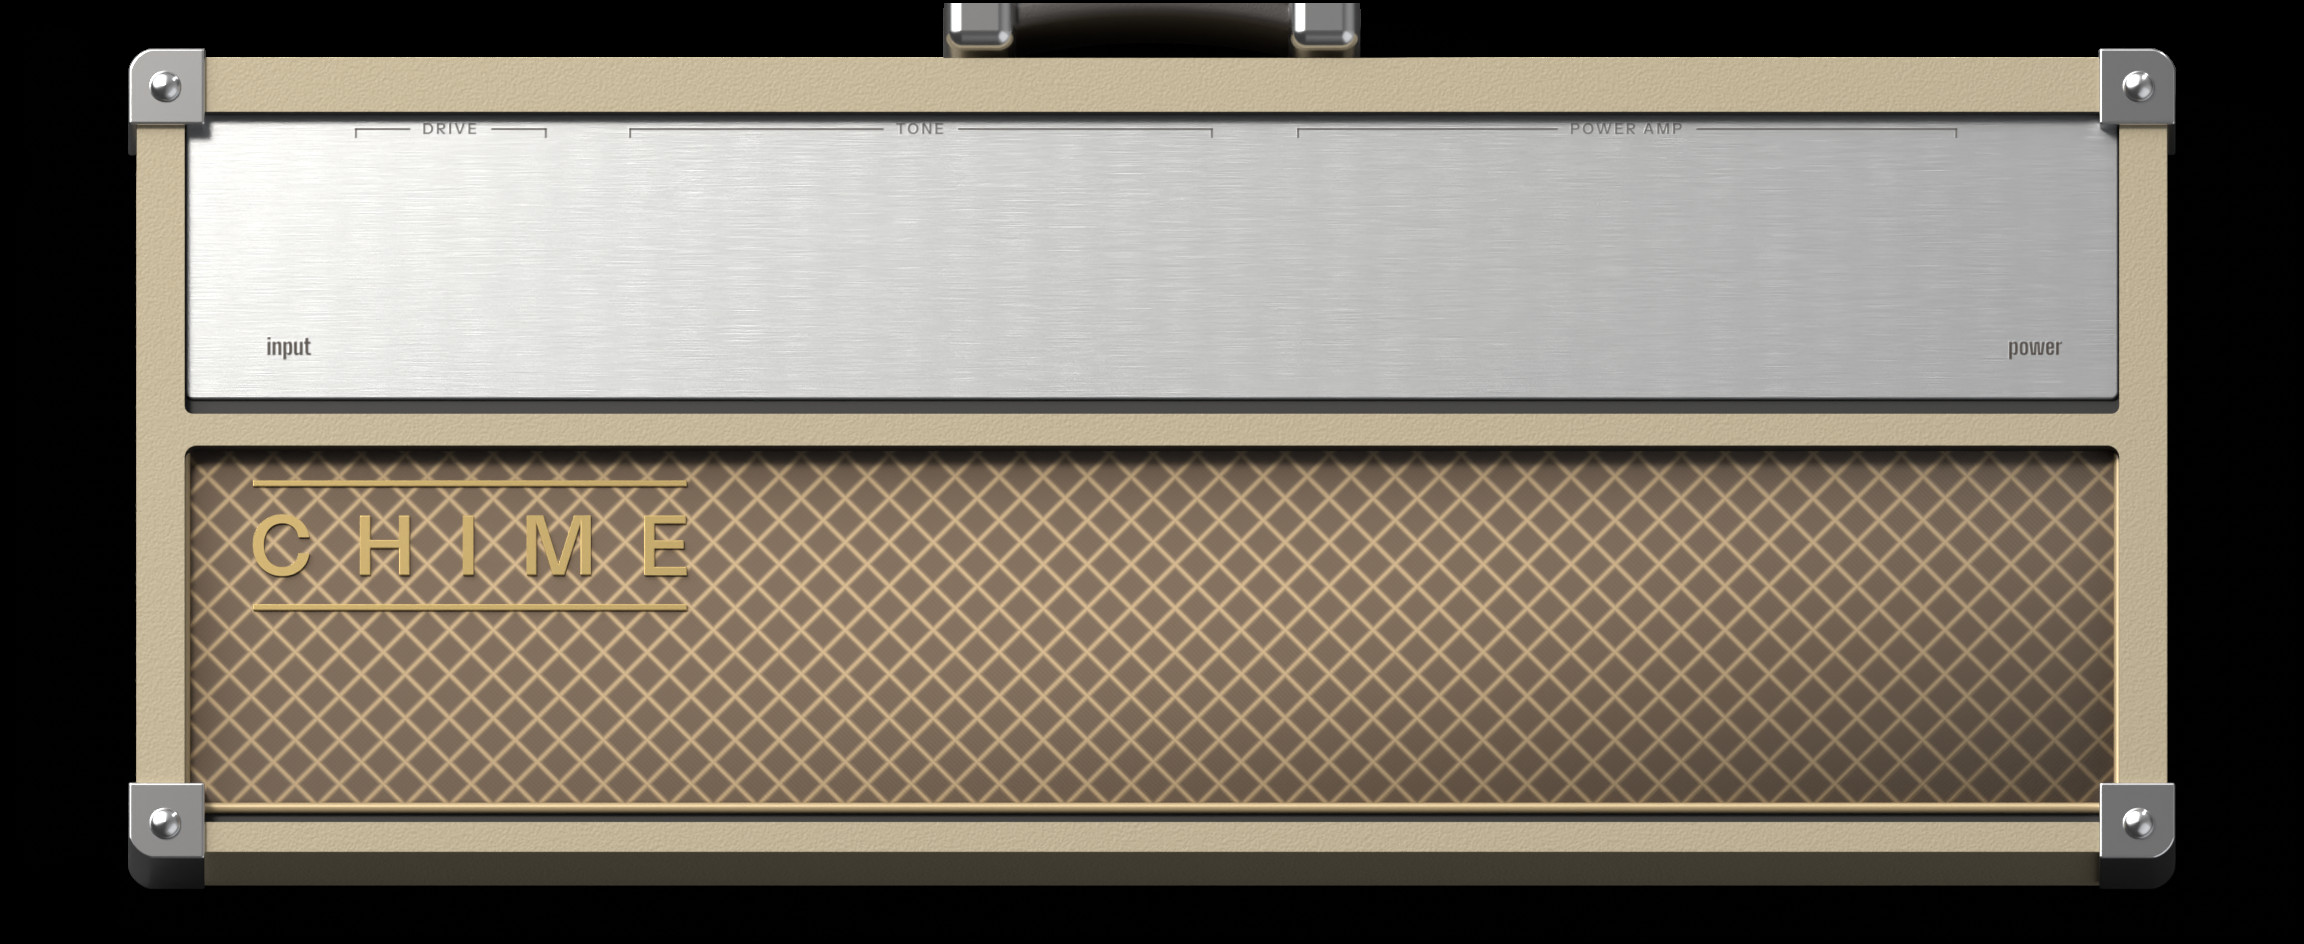
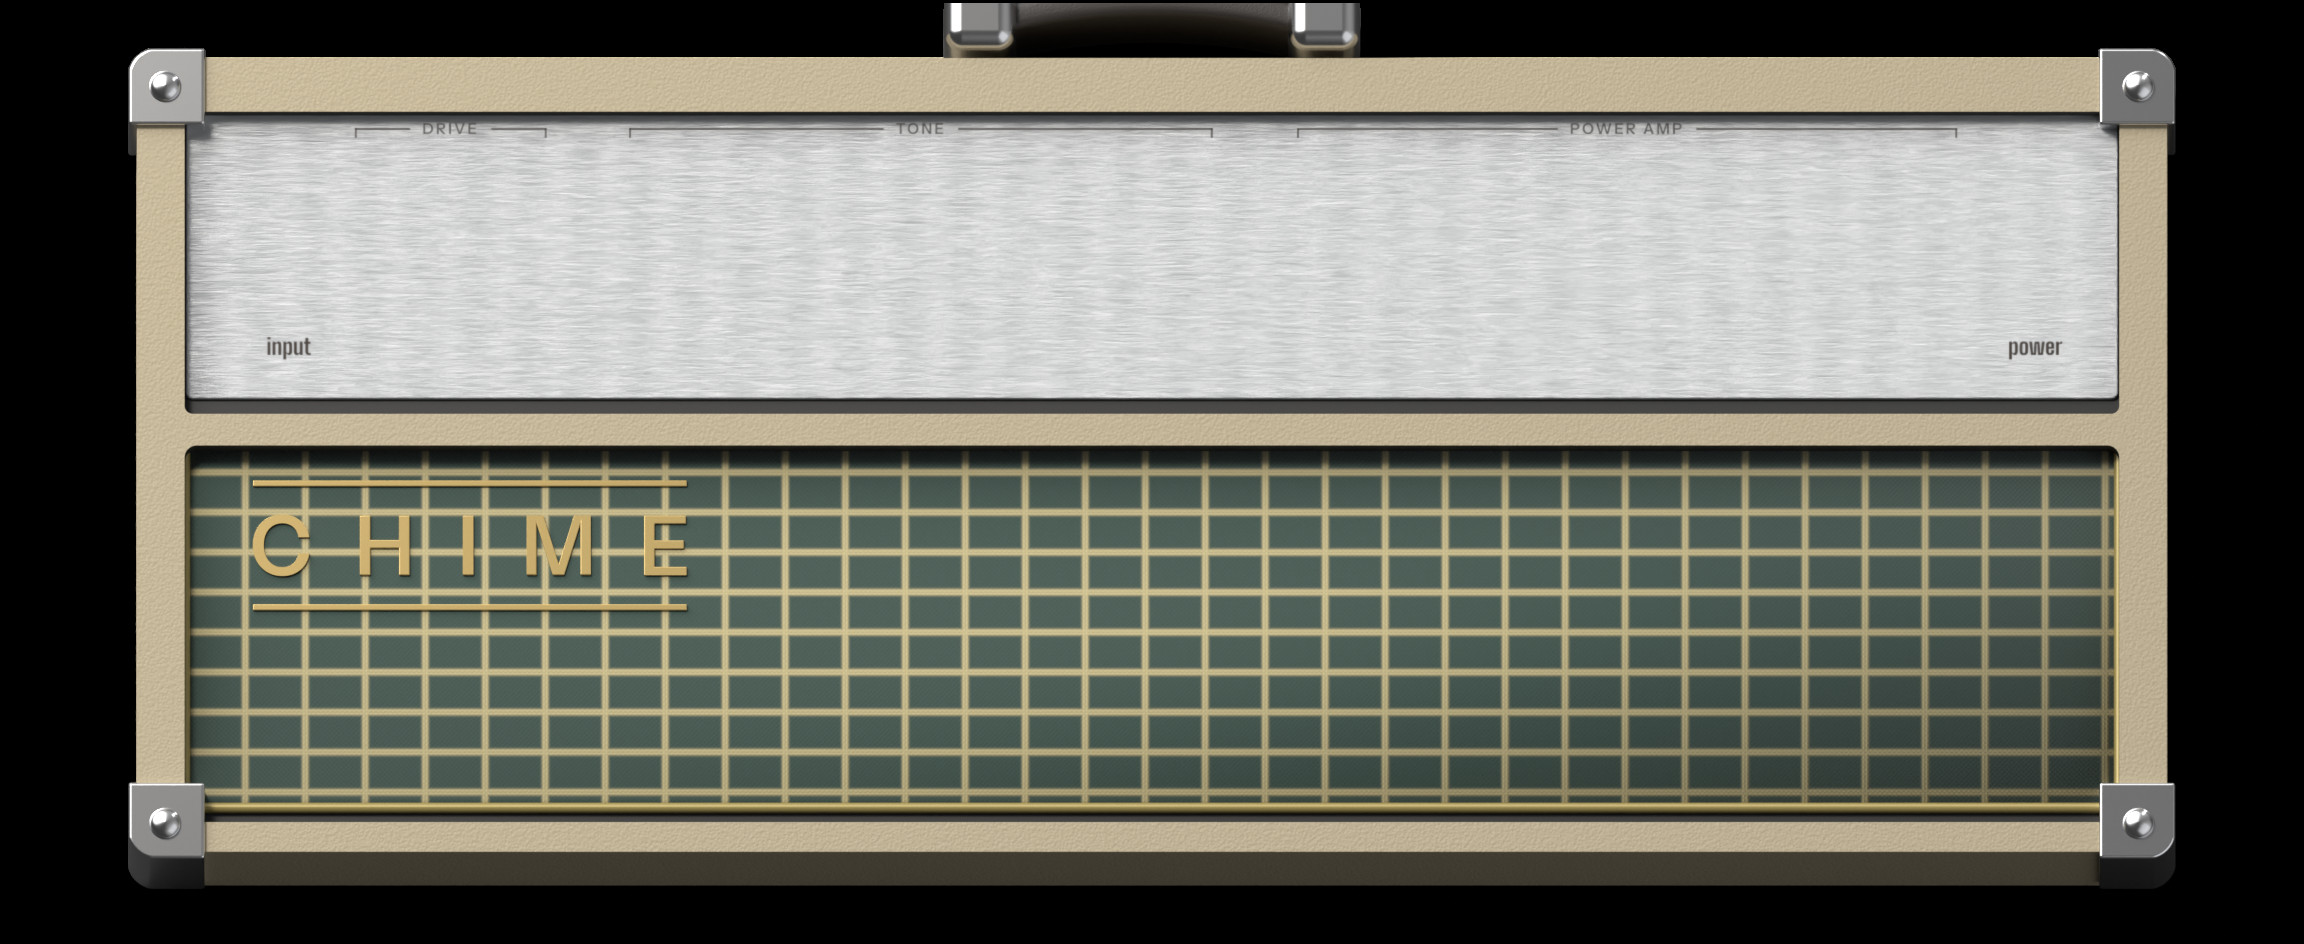
Chime amp and cab: a windowpane grille cloth in brass over deep green, clear of the diamond lattice
The diamond lattice over cream tolex was close to a famous British amp's look. The cloth is now a
brass windowpane check over deep green, in the live drawing (Gear.cpp), in the 3D art's source
(amps.py) and in the re-rendered art of the Chime amp and its matching cab.

Claude-Session: https://claude.ai/code/session_01S98bwYnjA36tYr2VHe11xa

diff --git a/src/ui/Gear.cpp b/src/ui/Gear.cpp
@@ -444,7 +444,7 @@ const AmpDesign& ampDesign (int m)
           { "volume", "bass", "middle", "treble", "bright", "deep", "master", "output" }, { 0, 3, 2, 1, 4, 5, 6, 7 }, 0x30 },
         { "tweed",     Tolex::tweed,  0xffc9a66b, Panel::chrome,   0xff1b1a18, Weave::wheat,      0,          KnobStyle::chicken, 0xffece4cf, 0xfff2351f, Face::instrumentSemi, true,  false, false, 2, 0, 1, 0.66f,
           { "volume", "bass", "middle", "treble", "presence", "body", "loud", "output" }, { 4, 2, 1, 3, 0, 6, 5, 7 }, 0xa0 },
-        { "chime",     Tolex::cream,  0xffd9c9a6, Panel::brushed,  0xff2b1f14, Weave::diamond,    0xffcbb48a, KnobStyle::chicken, 0xfff1ead8, 0xffffc35a, Face::shoulders,      true,  false, false, 0, 3, 1, 0.94f,
+        { "chime",     Tolex::cream,  0xffd9c9a6, Panel::brushed,  0xff2b1f14, Weave::diamond,    0xffa8975a, KnobStyle::chicken, 0xfff1ead8, 0xffffc35a, Face::shoulders,      true,  false, false, 0, 3, 1, 0.94f,
           { "drive", "bass", "middle", "treble", "brilliance", "weight", "master", "output" }, { 0, 1, 2, 3, 4, 5, 6, 7 }, 0x30 },
         { "SOVEREIGN", Tolex::levant, 0xff131313, Panel::gold,     0xff17130c, Weave::none,       0xffe9e4d6, KnobStyle::hat,     0xffd8b04a, 0xffec2f1b, Face::shoulders,      false, true,  false, 1, 0, 2, 1.0f,
           { "VOLUME I", "BASS", "MIDDLE", "TREBLE", "PRESENCE", "RESONANCE", "VOLUME II", "OUTPUT" }, { 4, 1, 2, 3, 0, 6, 5, 7 }, 0xa0 },
@@ -1505,17 +1505,16 @@ namespace
                 }
                 break;
             }
-            case Weave::diamond:
+            case Weave::diamond: // the windowpane cloth: a brass lattice of upright rectangles over deep green
             {
-                g.setColour (C (0xff3a2b1f));
+                g.setColour (C (0xff10231d));
                 g.fillRect (r);
-                const float p = 22.0f;
-                for (float x = r.getX() - r.getHeight(); x < r.getRight() + r.getHeight(); x += p)
-                {
-                    g.setColour (C (0xffb08e5c).withAlpha (0.55f));
-                    g.drawLine (x, r.getY(), x + r.getHeight(), r.getBottom(), 3.0f);
-                    g.drawLine (x, r.getBottom(), x + r.getHeight(), r.getY(), 3.0f);
-                }
+                const float pu = 30.0f, pv = 20.0f;
+                g.setColour (C (0xffa8975a).withAlpha (0.6f));
+                for (float x = r.getX() + 1.0f; x < r.getRight(); x += pu)
+                    g.fillRect (x, r.getY(), 3.0f, r.getHeight());
+                for (float y = r.getY() + 1.0f; y < r.getBottom(); y += pv)
+                    g.fillRect (r.getX(), y, r.getWidth(), 3.0f);
                 for (int i = 0; i < (int) (area / 6.0f); ++i)
                 {
                     g.setColour (juce::Colours::black.withAlpha (0.08f + rnd.nextFloat() * 0.1f));
@@ -2559,7 +2558,7 @@ namespace
         switch (m)
         {
             case 0:  return { Weave::black,      0,          5, 0.20f, true  };
-            case 1:  return { Weave::diamond,    0xffcbb48a, 2, 0.12f, true  };
+            case 1:  return { Weave::diamond,    0xffa8975a, 2, 0.12f, true  };
             case 2:  return { Weave::saltPepper, 0xffe9e2cf, 3, 0.16f, false };
             case 3:  return { Weave::grid,       0,          6, 0.24f, false };
             case 4:  return { Weave::silver,     0,          0, 0.15f, true  };

diff --git a/tools/gear3d/amps.py b/tools/gear3d/amps.py
@@ -308,13 +308,14 @@ def cloth_maps(st, rect, weave, piping_round, speakers, work, aid):
         if weave == 1:           # darker stripes woven in a hand apart
             band = ((u - 9.0) % 18.0) < 2.4
             col = np.where(band[..., None], col * 0.72, col)
-    elif weave == 2:           # the diamond cloth: a tan lattice over brown
-        p = 22.0
-        d1 = ((u + v) % p) / p
-        d2 = ((u - v) % p) / p
-        line = np.maximum(np.exp(-((d1 - 0.5) * p / 1.6) ** 2), np.exp(-((d2 - 0.5) * p / 1.6) ** 2))
+    elif weave == 2:           # windowpane cloth: a brass lattice of upright rectangles over deep green
+        pu, pv = 30.0, 20.0
+        du = ((u % pu) / pu - 0.5) * pu
+        dv = ((v % pv) / pv - 0.5) * pv
+        line = np.maximum(np.exp(-((np.abs(du) - pu * 0.5 + 0.7) / 1.0) ** 2),
+                          np.exp(-((np.abs(dv) - pv * 0.5 + 0.7) / 1.0) ** 2))
         fine = (np.sin(u * math.pi / 1.2) * np.sin(v * math.pi / 1.2)) * 0.5 + 0.5
-        col = np.array((0.11, 0.07, 0.04)) * (1 - line[..., None]) + np.array((0.42, 0.3, 0.16)) * line[..., None]
+        col = np.array((0.012, 0.04, 0.03)) * (1 - line[..., None]) + np.array((0.4, 0.34, 0.17)) * line[..., None]
         col = col * (0.85 + 0.15 * fine[..., None])
         hgt = line * 0.8 + fine * 0.3
     elif weave == 3:           # salt and pepper basket weave
